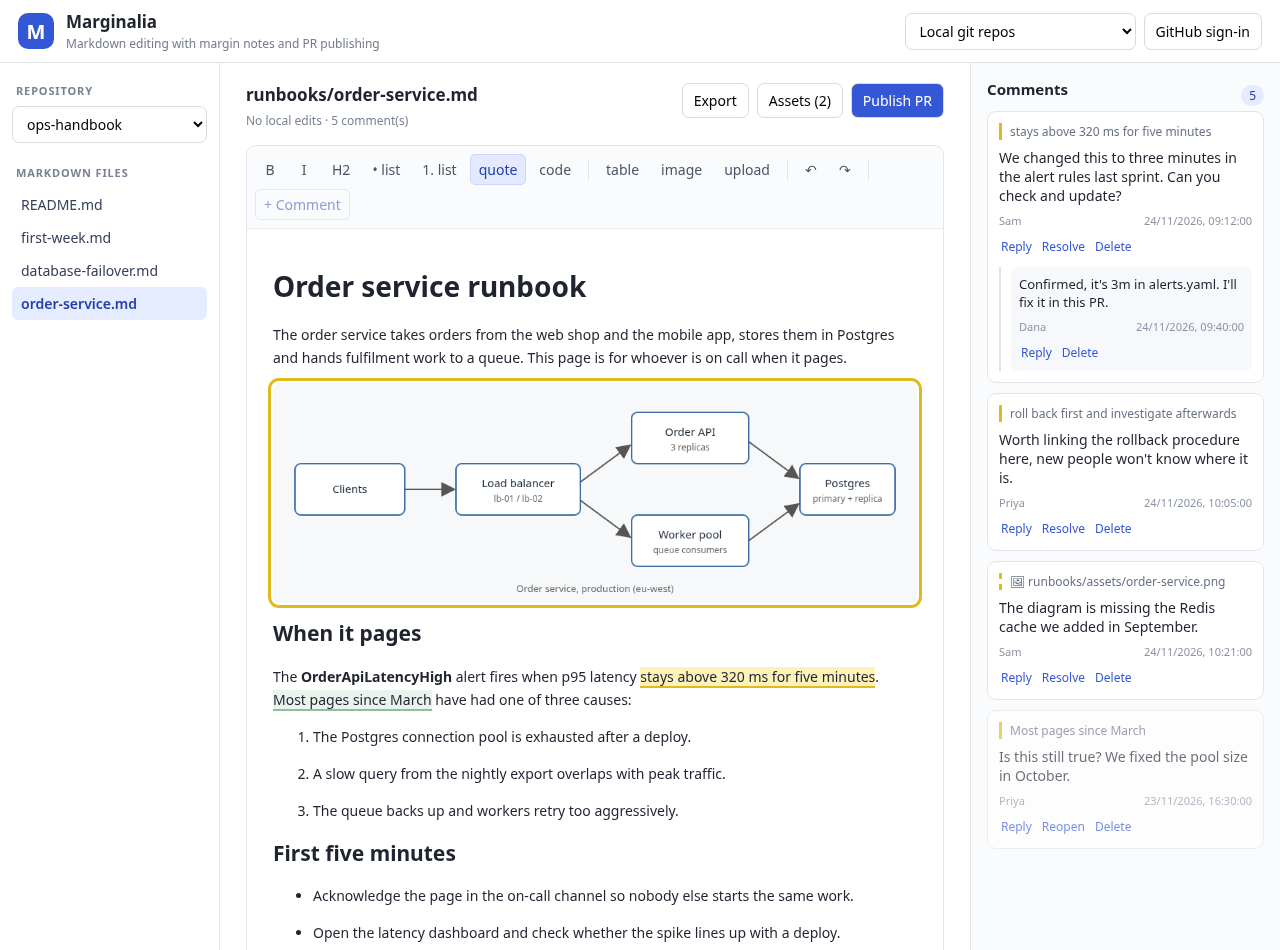
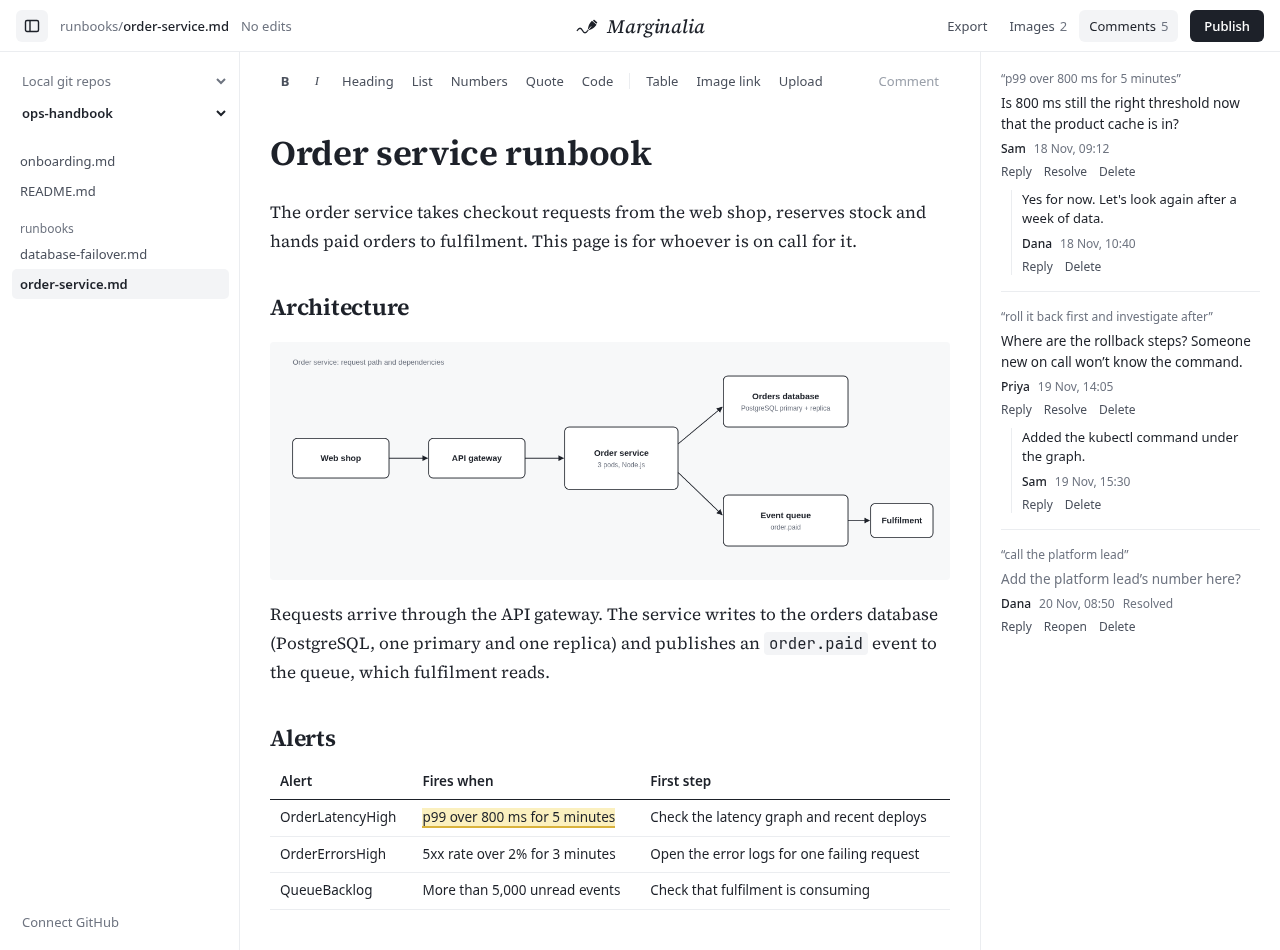
Marginalia overview: new interface, fixed issues, fresh screenshots

diff --git a/marginalia/README.md b/marginalia/README.md
@@ -1,14 +1,14 @@
 # Marginalia
 
-**A browser-based Markdown editor for documentation kept in git. You open a page from a local repository or from GitHub, edit it like a word processor, leave review comments on words or images, and publish the result as a branch and pull request.**
+**A Markdown editor for documentation kept in git. You open a page from a local repository or from GitHub, write in it like a word processor, leave review comments on words or images, and publish the result as a branch and pull request.**
 
-Teams that keep runbooks, guides and handbooks as Markdown in git get version history and review, but at a cost: everyone who wants to fix a typo or question a sentence has to work with raw Markdown, branches and diffs. Marginalia puts a rich editor in front of the repository and keeps the repository as the only store: no database, and no copy of the documents on the server. Edits and review notes become one normal commit on a new branch, which goes through the team's usual pull request process.
+Teams that keep runbooks, guides and handbooks as Markdown in git get version history and review, but at a cost: everyone who wants to fix a typo or question a sentence has to work with raw Markdown, branches and diffs. Marginalia puts a quiet, writing-first editor in front of the repository and keeps the repository as the only store: no database, and no copy of the documents on the server. Edits and review comments become one normal commit on a new branch, which goes through the team's usual pull request process.
 
 Source code: [github.com/chrisnock-personal/marginalia](https://github.com/chrisnock-personal/marginalia)
 
-![Marginalia with an order service runbook open: the file list on the left, the rich editor in the middle with highlighted comment anchors and a highlighted diagram, and the comment threads on the right](images/01-editor.png)
+![Marginalia with the order service runbook open: the file list on the left, the page in the middle with a highlighted comment anchor, and the comment threads on the right](images/01-editor.png)
 
-*Every screenshot on this page comes from the real product, working on a made-up `ops-handbook` repository: an order service runbook, a database failover page and an onboarding page, reviewed by Dana, Sam and Priya. The yellow highlights are open comments, the green one has been resolved, and the outlined diagram has a comment of its own.*
+*Every screenshot on this page comes from the real product, working on a made-up `ops-handbook` repository: an order service runbook, a database failover page and an onboarding page, reviewed by Dana, Sam and Priya. Yellow highlights mark open comments.*
 
 ---
 
@@ -16,42 +16,48 @@ Source code: [github.com/chrisnock-personal/marginalia](https://github.com/chris
 
 | | |
 |---|---|
-| **Editing** | A rich editor that reads and writes Markdown: headings, bold and italic, lists, quotes, code blocks, links, tables with row and column tools, and images by URL, upload, paste or drag and drop |
+| **Writing** | A rich editor that reads and writes Markdown: headings, bold and italic, lists, quotes, code blocks, tables with row and column tools, and images by URL, upload, paste or drag and drop. The file list and comments can be hidden, leaving only the page |
 | **Comments** | Comments on selected text or on a whole image, with replies, resolve and reopen. They are kept in a `comments.json` file in the repository, next to the documents, and follow the text when it moves |
 | **Images** | A list of every image in the repository. Renaming or moving one rewrites the links to it in every Markdown file; deleting one removes it and its embeds |
-| **Publishing** | One branch and one commit with the edited pages, images and comments, then a pull request on GitHub. Your own checkout is never touched. Publishing stops if someone else changed the base branch after you opened the page |
-| **Export** | An HTML page with print styles, with the comments as an appendix if you want them, ready for the browser's Save as PDF |
-| **Sources and sign-in** | Local git repositories, and GitHub repositories through its API. Sign in to GitHub with an OAuth App or a personal access token, held only in the server's memory |
+| **Publishing** | One branch and one commit with the edited pages, images and comments, then a pull request on GitHub. Only what you changed is rewritten. Your own checkout is never touched, and publishing stops if the base branch moved after you opened the page |
+| **Export** | A single self-contained HTML file with print styles and the images embedded, with the comments as an appendix if you want them |
+| **Sources and sign-in** | Local git repositories, kept up to date with their `origin`, and GitHub repositories through its API. Sign in to GitHub with an OAuth App or a personal access token, held only in the server's memory |
 
 ---
 
-## Editing
+## Writing
 
-The editor works on the formatted page, not on Markdown syntax. The toolbar covers bold, italic, headings, bullet and numbered lists, quotes and code blocks, with undo and redo. What you write is turned back into Markdown (GitHub Flavoured Markdown, so tables survive) when you publish.
+The editor works on the formatted page, not on Markdown syntax, and stays out of the way: one thin bar along the top shows the file and whether it has unpublished changes, with Export, Images, Comments and Publish on the right. The toolbar above the page covers bold, italic, headings, bulleted and numbered lists, quotes, code blocks, tables and images. What you write is turned back into Markdown (GitHub Flavoured Markdown, so tables survive) when you publish.
 
-![The onboarding page with the cursor in a table: the toolbar shows the table tools, and a new row for Alex has been added below Priya](images/02-tables.png)
+![The same runbook with both side panels hidden: only the top bar, the toolbar and the page remain](images/02-focus.png)
 
-*A new person joins the onboarding table: with the cursor in the table, the toolbar adds **+ row**, **+ col**, **− row** and **− col**.*
+*The button at the top left hides the file list and the Comments button hides the comments. The choice is remembered in the browser, and starting a comment brings the comments back.*
 
-**Tables** are inserted from the toolbar as a 3×3 grid and edited in place. Tab moves from cell to cell, and the row and column tools appear while the cursor is inside a table.
+**Tables** are inserted from the toolbar and edited in place. Tab moves from cell to cell, and **+ row**, **+ col**, **− row** and **− col** appear while the cursor is inside a table.
 
-**Images** go in four ways: by URL (or a path in the repository), by choosing files, by pasting from the clipboard, or by dropping them on the page. Pasted, dropped and chosen images are kept in an `assets/` folder next to the document and travel in the same commit as the text. Until then they exist only in your browser, so nothing is written anywhere until you publish. Images already in the repository are shown from the base branch, with links relative to the page, as GitHub would show them.
+![The onboarding page with a new row for Alex, a support engineer whose buddy is Priya, added below Priya's row](images/03-tables.png)
+
+*Alex joins the onboarding table. The top bar now shows "1 file changed".*
+
+**Images** go in four ways: by URL (or a path in the repository), by choosing files, by pasting from the clipboard, or by dropping them on the page. Pasted, dropped and chosen images are kept in an `assets/` folder next to the document and travel in the same commit as the text. Until then they exist only in your browser. Images already in the repository are shown from the base branch, with links relative to the page, as GitHub would show them.
+
+**Only what you changed is rewritten.** The editor rebuilds the page's Markdown when you publish, which would normally re-pad every table and shift blank lines. Marginalia puts back the original text of every table you didn't touch, writes changed tables in compact form and keeps the file's final newline. When the publish shown below moved an image, the runbook's diff was exactly one line: the image link.
 
 ---
 
 ## Comments in the margin
 
-Select some text, click **+ Comment**, write the note and add your name. The comment appears in the right-hand panel with the words it refers to, and those words are highlighted in the page. Each comment can be replied to, resolved (it turns green and stays in the panel) or deleted. Your name is remembered in the browser for the next comment.
+Select some text, click **Comment**, write the note and add your name. The comment appears in the right-hand panel with the words it refers to, and those words are highlighted in the page. Each comment can be replied to, resolved (it turns grey and its highlight becomes a dashed underline) or deleted. Your name is remembered in the browser for the next comment.
 
-![Sam writing a comment on "Acknowledge the page in the on-call channel": the selected words appear at the top of the composer, with the note and the author name below](images/03-comment.png)
+![Sam writing a comment on "Acknowledge the page in the on-call channel.": the quoted words sit above the note and Sam's name](images/04-comment.png)
 
-*Sam asks which channel the runbook means. Above it in the panel, Sam's earlier question about the alert threshold already has Dana's reply.*
+*Sam asks which on-call channel the runbook means. Below, Sam's question about the alert threshold already has Dana's reply.*
 
 **Comments on images.** Click an image instead of selecting text, and the comment is attached to the image file rather than to a sentence. The image gets an outline in the page, and the comment shows the image's path. If the image is later renamed or moved with the image list, its comments follow it.
 
-![Priya commenting on the latency graph: the composer shows the image's repository path, and a new reply from Sam sits under Priya's earlier rollback comment](images/04-image-comment.png)
+![Priya commenting on the latency graph: the graph is outlined and the comment box shows its repository path](images/05-image-comment.png)
 
-*Priya asks for a deploy marker on the latency graph. Sam has already replied to her comment about the rollback steps, and the text now says where they are.*
+*Priya asks for the 14:02 deploy to be marked on the latency graph.*
 
 **Where the comments live.** Comments are saved in `comments.json` at the root of the repository and published in the same commit as the edits, so they are reviewed, versioned and merged like everything else. Nothing about them is stored in Marginalia itself.
 
@@ -61,33 +67,35 @@ Select some text, click **+ Comment**, write the note and add your name. The com
 
 ## Images across the repository
 
-**Assets** lists every image in the repository, with a thumbnail and its path. Changing the path and clicking **Rename / move** moves the file, and rewrites every Markdown link to it, in every Markdown file in the repository, not only the open one. **Delete** removes the file and the image embeds that pointed to it. Comments on a moved image follow it to the new path; comments on a deleted image are removed.
+**Images** lists every image in the repository, with a thumbnail and its path. Changing the path and clicking **Rename / move** moves the file and rewrites every Markdown link to it, in every Markdown file in the repository, not only the open one. **Delete** removes the file and the image embeds that pointed to it. Comments on a moved image follow it to the new path; comments on a deleted image are removed.
 
-![The image list with two images; the latency graph's path is being changed to runbooks/assets/incidents/2026-10-14-latency.png](images/05-assets.png)
+![The image list with the architecture diagram and the latency graph; the graph's path is being changed to runbooks/assets/incidents/2026-10-14-latency.png](images/06-images.png)
 
 *The latency graph moves into an `incidents/` folder with the date in its name. In the published commit, git records it as a rename, the runbook's link points to the new path, and Priya's comment on the graph points there too.*
 
-Like the editing, all of this stays in the browser until you publish: the moved file, the deleted file and the rewritten pages go into the same commit.
+Like the writing, all of this stays in the browser until you publish: the moved file, the deleted file and the rewritten pages go into the same commit.
 
 ---
 
 ## Publishing as a pull request
 
-**Publish PR** asks for a branch name (suggested from the page name), a commit message, and the pull request's title and description, then shows what's going in.
+**Publish** asks for a branch name (suggested from the page name), a commit message, and the pull request's title and description, then lists every file that will be in it: edited pages, moved and deleted images, and `comments.json` with its comment count.
 
-![The publish dialog: branch marginalia/order-service-…, the commit message, PR title and body, and the files in this PR](images/06-publish.png)
+![The publish dialog: branch, commit message, PR title and description, and the files in the PR, including the graph shown as moved from its old path](images/07-publish.png)
 
-*Dana publishes the runbook edits, the moved graph and the eight comments.*
+*Dana publishes the review: the runbook with its rewritten image link, the moved graph and the seven comments.*
 
 Marginalia then creates a new branch from the base branch with exactly one commit:
-- **Local repositories:** it checks out the base branch in a temporary git worktree, writes the files there, commits, pushes the branch to `origin` and removes the worktree. Your own checkout, including any work in progress, is never modified. If `origin` is on GitHub, it opens the pull request with the GitHub CLI; otherwise it pushes the branch and says no PR was created. A dry-run setting stops after the commit, for trying it out.
+- **Local repositories:** it fetches from `origin` first and builds on the latest `origin` version of the base branch, falling back to the local branch when there is no reachable `origin`. The page you edit was read from that same commit, so a publish can't overwrite someone else's newer work. It writes the files in a temporary git worktree, commits, pushes the branch to `origin` and removes the worktree; your own checkout, including any work in progress, is never modified. If `origin` is on GitHub, it opens the pull request with the GitHub CLI; otherwise it pushes the branch and says no PR was created. A dry-run setting stops after the commit, for trying it out.
 - **GitHub repositories:** it builds the commit through GitHub's API (blobs, a tree, a commit and a branch), with no clone at all, and opens the pull request.
+
+In the demo, the publish produced one commit touching three files: `comments.json` gained the two new comments (seven in all), the graph was recorded as a rename, and the runbook changed by one line.
 
 **Someone else changed the page.** Marginalia records the base branch's commit when you open a page. When you publish, it checks again before writing anything. If the branch has moved, publishing stops and offers to reload the page with the newer version.
 
-![The publish dialog showing "Base branch changed since you opened the file", with a Reload file button](images/07-conflict.png)
+![The publish dialog for the onboarding page with a note that the base branch moved, and a Reload file button](images/08-conflict.png)
 
-*Sam committed to the onboarding page while Dana was editing it. Dana's publish is refused, and **Reload file** brings in Sam's change.*
+*Sam pushed a change to the onboarding page from another clone while Dana was editing it. Dana's publish is refused, and **Reload file** brings in Sam's change.*
 
 The check is deliberately cautious: any new commit on the base branch counts, even one to a different file. Merging the two versions automatically isn't done yet.
 
@@ -95,21 +103,29 @@ The check is deliberately cautious: any new commit on the base branch counts, ev
 
 ## Export and PDF
 
-**Export** turns the open page into a single HTML document with clean print styles, without the editor around it. It can be downloaded, or opened straight into the browser's print dialog to save as PDF. The page's comments can be included as an appendix, each with the quoted words or image path, the author and the time. Images are loaded from the Marginalia server, so print or save the PDF while it's running.
+**Export** turns the open page into a single HTML file with clean print styles, without the editor around it. It can be downloaded, or opened straight into the browser's print dialog to save as PDF. The images are embedded in the file, including ones that are staged or moved but not yet published, so it works offline and can be sent on its own: the runbook's export was 73 KB with both images inside it and no links back to the server. The page's comments can be included as an appendix, each with the quoted words or image path, the author and the time.
 
-![The exported runbook as a plain HTML page: title, text and architecture diagram, without the editor around it](images/08-export.png)
+![The exported runbook as a plain HTML page: title, text, architecture diagram and the alerts table](images/09-export.png)
 
-![The comments appendix of the export: each comment with its quote or image path, the note, the author and the time](images/09-export-comments.png)
+![The comments appendix of the export: each comment with its quote or image path, the note, the author and the time](images/10-export-comments.png)
 
-*The runbook as exported, and the end of its comments appendix, with Priya's comment on the latency graph last.*
+*The runbook as exported, and its comments appendix, with Priya's comment on the moved graph last.*
 
 ---
 
 ## Sources and GitHub sign-in
 
-Local repositories are listed by path when the server starts. For GitHub, **GitHub sign-in** connects in one of two ways: through a GitHub OAuth App, if one is set up, or by pasting a personal access token. Either way, the token is checked with GitHub, kept only in the server's memory, and never stored in the browser or written to disk. For running without a browser sign-in, a token can also be given at startup, in an environment variable or a file.
+Local repositories are listed by path when the server starts. For GitHub, **Connect GitHub** at the bottom of the file list connects in one of two ways: through a GitHub OAuth App, if one is set up, or by pasting a personal access token. Either way, the token is checked with GitHub, kept only in the server's memory, and never stored in the browser or written to disk. For running without a browser sign-in, a token can also be given at startup, in an environment variable or a file.
 
-![The Connect GitHub dialog, asking for a personal access token, with a note on the scopes it needs](images/10-github.png)
+![The Connect GitHub dialog, asking for a personal access token, with a note on the scopes it needs](images/11-github.png)
+
+---
+
+## On a phone
+
+On a narrow screen the top bar shrinks to the file name and **Publish**, with Export, Images and the comments in a menu. The toolbar scrolls sideways, and the file list, page and comments become one scrolling page. The file list steps aside once a file is open.
+
+<img src="images/12-phone.png" width="320" alt="The order service runbook on a phone: a compact bar with the file name, a menu and Publish, a sideways-scrolling toolbar, and the page below">
 
 ---
 
@@ -119,11 +135,11 @@ One Node.js process serves the editor and its API; there is nothing else to run,
 
 ## Status
 
-An early prototype (version 0.1.0, November 2026), built for one person at a time: one GitHub identity per server, and one open document at a time. 18 automated tests cover comment anchoring, the `comments.json` format, image path rewriting, the export, conflict detection, OAuth and both git providers, alongside a TypeScript type check. Everything on this page was checked by running it against the demo repository, publishing to a real git remote and reading back the commits it made.
+An early prototype (version 0.1.0, November 2026), built for one person at a time: one GitHub identity per server, and one open document at a time. 35 automated tests cover comment anchoring, the `comments.json` format, image path rewriting, Markdown table preservation, the export, the publish file list, conflict detection, OAuth and both git providers, alongside a TypeScript type check. Everything on this page was checked by running it against the demo repository, publishing to a real git remote and reading back the commits it made.
 
 Known gaps:
+- Opening another file discards unpublished edits to the current one without asking.
+- New Markdown files can't be created from the editor yet ([#9](https://github.com/chrisnock-personal/marginalia/issues/9)).
 - Comments are not posted as GitHub review comments; they stay in `comments.json`.
-- Conflicts are detected but not merged. For a local repository, Marginalia only sees commits in your local checkout, not ones pushed to `origin` since your last pull ([#2](https://github.com/chrisnock-personal/marginalia/issues/2)).
-- Publishing a page rewrites its whole Markdown from the editor, so tables and spacing can be reformatted along with the real edit ([#3](https://github.com/chrisnock-personal/marginalia/issues/3)).
-- The export links to images on the running Marginalia server rather than embedding them, and images that are staged but not yet published don't show in it ([#1](https://github.com/chrisnock-personal/marginalia/issues/1)).
-- The publish dialog lists only the open page and `comments.json`, not staged images or other pages whose image links were rewritten, though all of them are published ([#4](https://github.com/chrisnock-personal/marginalia/issues/4)).
+- Conflicts are detected but not merged.
+- Setting it up needs Node.js, git and an environment variable, which keeps out people who don't use a terminal. A desktop app for Windows, macOS and Linux is planned ([#10](https://github.com/chrisnock-personal/marginalia/issues/10)).
